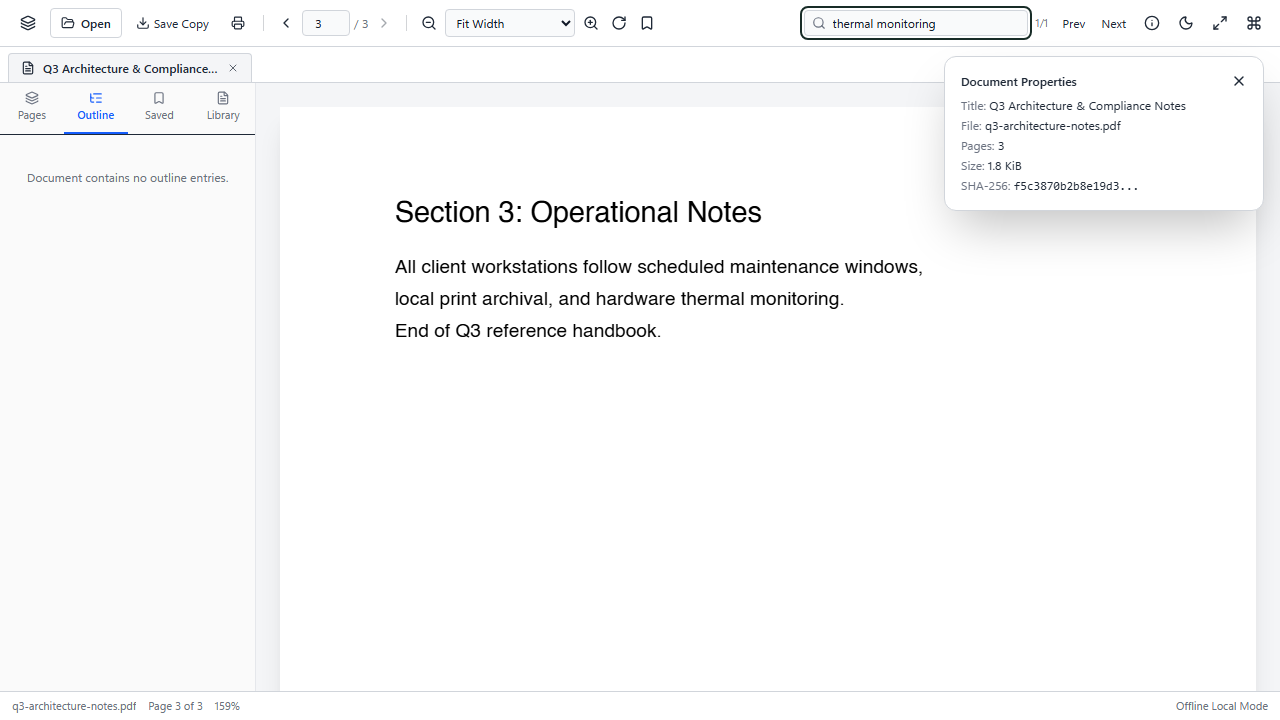
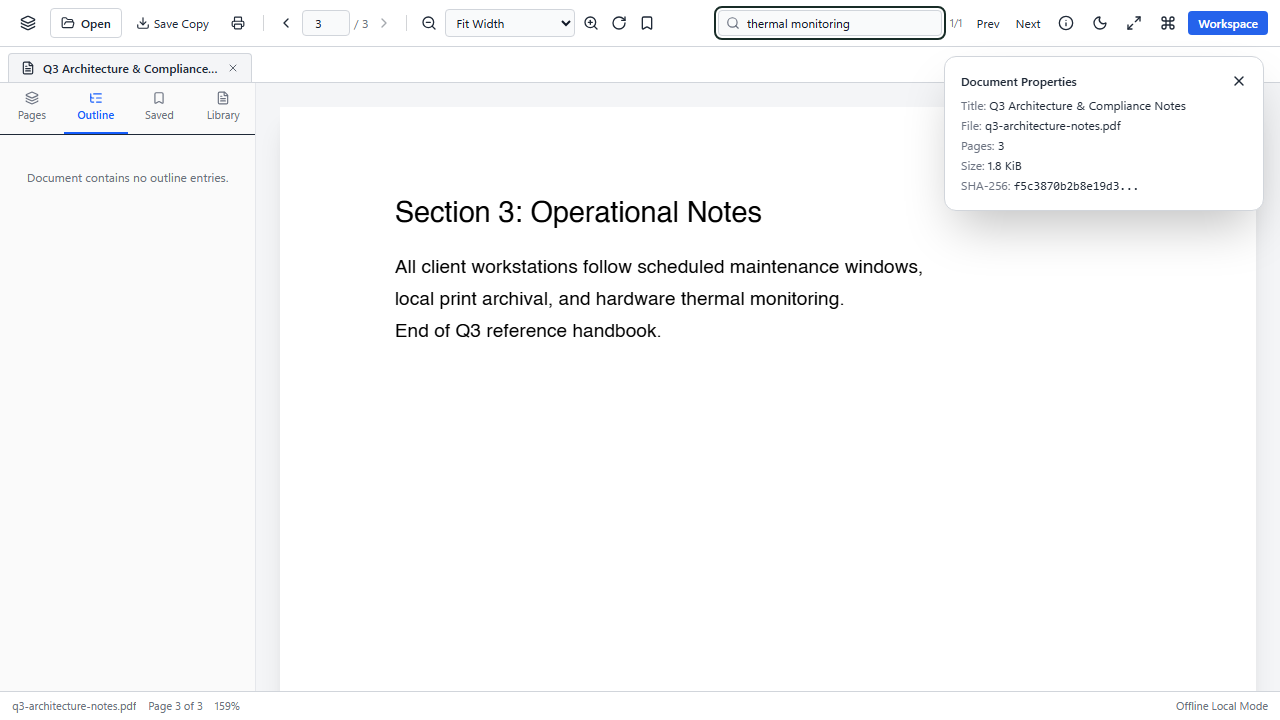
feat(stealth): require secret code to enter workspace from PDF cover with entry animation and instant hide

Changed region(s): [[0.5625, 0.0, 1.0, 0.0611]]

diff --git a/apps/web/src/pages/P2pWorkspacePage.tsx b/apps/web/src/pages/P2pWorkspacePage.tsx
@@ -425,8 +425,15 @@ export function P2pWorkspacePage() {
         setUnavailableReason(
           'Cloak Desktop API rejected the session token (401 Unauthorized). Launch via cloak-desktop.exe or pass the desktop session token.',
         );
-      } else if (err instanceof P2pApiError && err.status === 423) {
-        // Stealth Mode locked mid-refresh; re-fetch locked-safe bootstrap & decoy metadata instead of treating 423 as offline.
+      } else if (
+        err instanceof P2pApiError &&
+        (err.status === 423 ||
+          (err.status === 403 &&
+            (err.code === 'STEALTH_LOCKED' ||
+              err.message?.includes('STEALTH_LOCKED') ||
+              err.message?.includes('locked'))))
+      ) {
+        // Stealth Mode locked mid-refresh; re-fetch locked-safe bootstrap & decoy metadata instead of treating 403/423 as offline.
         try {
           const [boot, docs] = await Promise.all([
             p2pApi.getStealthBootstrap(),
@@ -1642,7 +1649,7 @@ export function P2pWorkspacePage() {
         className="min-h-screen bg-[var(--cloak-bg-void)] text-[var(--cloak-text)] flex items-center justify-center p-6"
       >
         {callState !== 'idle' && <audio ref={remoteKeepAliveAudioRef} autoPlay className="hidden" />}
-        <div className="cloak-panel-enter max-w-md w-full rounded-3xl border border-[var(--cloak-border-strong)] bg-[var(--cloak-bg-card)] shadow-[var(--cloak-dialog-shadow)] p-7 space-y-5">
+        <div className="max-w-md w-full rounded-3xl border border-[var(--cloak-border-strong)] bg-[var(--cloak-bg-card)] shadow-[var(--cloak-dialog-shadow)] p-7 space-y-5">
           <div className="mx-auto w-12 h-12 rounded-full bg-[var(--cloak-bg-sage-soft)] border border-[var(--cloak-accent-border)] flex items-center justify-center text-[var(--cloak-accent-text)]">
             <Lock className="w-5 h-5" />
           </div>
@@ -1749,7 +1756,7 @@ export function P2pWorkspacePage() {
   const activePeersCount = status?.activePeerIds.length ?? 0;
 
   return (
-    <div className="h-screen flex bg-[var(--cloak-bg-void)] text-[var(--cloak-text)] overflow-hidden relative">
+    <div className="h-screen flex bg-[var(--cloak-bg-void)] text-[var(--cloak-text)] overflow-hidden relative cloak-messenger-enter">
       {sidebarOpen && (
         <div
           aria-hidden="true"
@@ -2324,7 +2331,7 @@ export function P2pWorkspacePage() {
             data-testid="ghost-privacy-overlay"
             className="flex-1 flex items-center justify-center p-6 bg-[var(--cloak-bg-void)]"
           >
-            <div className="cloak-panel-enter max-w-md w-full rounded-3xl border border-[var(--cloak-border-strong)] bg-[var(--cloak-bg-card)] shadow-[var(--cloak-dialog-shadow)] p-7 space-y-5 text-center">
+            <div className="max-w-md w-full rounded-3xl border border-[var(--cloak-border-strong)] bg-[var(--cloak-bg-card)] shadow-[var(--cloak-dialog-shadow)] p-7 space-y-5 text-center">
               <div className="mx-auto w-12 h-12 rounded-full bg-[var(--cloak-bg-sage-soft)] border border-[var(--cloak-accent-border)] flex items-center justify-center text-[var(--cloak-accent-text)]">
                 <ShieldOff className="w-5 h-5" />
               </div>
@@ -2368,7 +2375,7 @@ export function P2pWorkspacePage() {
             </div>
           </div>
         ) : (
-          <div ref={messageListRef} className="flex-1 overflow-y-auto overflow-x-hidden" data-testid="p2p-message-list">
+          <div ref={messageListRef} className="flex-1 overflow-y-auto overflow-x-hidden cloak-messenger-enter" data-testid="p2p-message-list">
             <div className="max-w-[920px] mx-auto w-full min-h-full px-4 sm:px-8 py-6 flex flex-col">
               {loadingMessages && messages.length === 0 ? (
                 <div className="space-y-3 my-auto max-w-xl w-full mx-auto">

diff --git a/tests/e2e/stealth-mode.spec.ts b/tests/e2e/stealth-mode.spec.ts
@@ -164,6 +164,21 @@ test.describe('Cloak Phase 10 Stealth Mode + Offline PDF Decoy + Secret Unlock +
         timeout: 6000,
       });
 
+      // Verify "PDF Cover" button switches to PDF disguise and locks workspace (cannot bypass without secret code)
+      await pageA.getByTestId('switch-pdf-btn').click();
+      await expect(pageA.getByTestId('pdf-reader-shell')).toBeVisible({ timeout: 8000 });
+      await expect(pageA.getByTestId('pdf-welcome-screen')).toBeVisible();
+      expect(await pageA.title()).toBe('Document Reader');
+
+      // Clicking "Workspace" prompts for secret code instead of bypassing the lock
+      await pageA.getByRole('button', { name: 'Workspace', exact: true }).click();
+      await expect(pageA.getByLabel('Reader Access Prompt')).toBeVisible();
+      await pageA.getByPlaceholder('Enter secret code, passphrase, or PIN').fill('#cloak');
+      await pageA.getByRole('button', { name: 'Submit', exact: true }).click();
+      await expect(pageA.getByRole('heading', { name: 'Hidden Ops Vault' })).toBeVisible({
+        timeout: 8000,
+      });
+
       // Open Stealth & PDF Settings Modal and inspect all 6 tabs visually!
       await pageA.getByTestId('stealth-settings-btn').click();
       await expect(

diff --git a/apps/web/src/components/pdf/PdfReaderShell.tsx b/apps/web/src/components/pdf/PdfReaderShell.tsx
@@ -1029,14 +1029,30 @@ export function PdfReaderShell({
           </button>
         )}
 
-        {!bootstrap.locked && onReturnToMessenger && (
+        {bootstrap.locked ? (
           <button
             type="button"
-            onClick={onReturnToMessenger}
+            onClick={() => {
+              setUnlockMethodChoice('hidden_shortcut_input');
+              setUnlockModalOpen(true);
+              setTimeout(() => hiddenUnlockInputRef.current?.focus(), 40);
+            }}
             className="px-2.5 py-1 rounded bg-[#2563eb] text-white font-medium hover:bg-[#1d4ed8]"
+            aria-label="Workspace"
+            title="Unlock Cloak Workspace (requires secret code)"
           >
             Workspace
           </button>
+        ) : (
+          onReturnToMessenger && (
+            <button
+              type="button"
+              onClick={onReturnToMessenger}
+              className="px-2.5 py-1 rounded bg-[#2563eb] text-white font-medium hover:bg-[#1d4ed8]"
+            >
+              Workspace
+            </button>
+          )
         )}
       </header>
 

diff --git a/packages/ui/src/styles.css b/packages/ui/src/styles.css
@@ -260,6 +260,9 @@ dialog.cloak-dialog[open]::backdrop {
   .cloak-menu-enter {
     animation: cloak-menu-pop 150ms cubic-bezier(0.16, 1, 0.3, 1);
   }
+  .cloak-messenger-enter {
+    animation: cloak-messenger-reveal 240ms cubic-bezier(0.16, 1, 0.3, 1);
+  }
   .cloak-skeleton {
     background: linear-gradient(90deg, var(--cloak-bg-elevated) 25%, var(--cloak-skeleton-mid) 50%, var(--cloak-bg-elevated) 75%);
     background-size: 200% 100%;
@@ -270,6 +273,9 @@ dialog.cloak-dialog[open]::backdrop {
 @media (prefers-reduced-motion: reduce) {
   .cloak-transition {
     transition: background-color 120ms ease, border-color 120ms ease, color 120ms ease;
+  }
+  .cloak-messenger-enter {
+    animation: none;
   }
   .cloak-skeleton {
     background: var(--cloak-bg-elevated);
@@ -315,6 +321,17 @@ dialog.cloak-dialog[open]::backdrop {
   to {
     opacity: 1;
     transform: scale(1);
+  }
+}
+
+@keyframes cloak-messenger-reveal {
+  from {
+    opacity: 0;
+    transform: translateY(8px);
+  }
+  to {
+    opacity: 1;
+    transform: none;
   }
 }
 

diff --git a/crates/cloak-p2p/src/stealth_tests.rs b/crates/cloak-p2p/src/stealth_tests.rs
@@ -670,3 +670,60 @@ async fn pdf_search_ordinary_queries_do_not_lockout_while_burst_throttles() {
     node.shutdown();
     let _ = std::fs::remove_dir_all(&dir);
 }
+
+#[tokio::test]
+async fn manual_pdf_cover_works_before_stealth_enabled_and_overrides_shield_default() {
+    let dir = temp_vault_dir("manual-pdf-cover");
+    let node = P2pNode::start(&dir, "127.0.0.1:0", "CoverUser")
+        .await
+        .expect("start");
+
+    // 1. Default state: stealth.enabled == false. Clicking "PDF Cover" switches to PdfReader and locks workspace.
+    let cfg = node.stealth().get_config().unwrap();
+    assert!(!cfg.enabled);
+    let cover_boot = node
+        .stealth()
+        .handle_trigger(PrivacyTriggerKind::ManualSwitchToPdf)
+        .unwrap();
+    assert_eq!(cover_boot.active_surface, ActiveSurface::PdfReader);
+    assert!(cover_boot.locked);
+    assert_eq!(cover_boot.window_title, "Document Reader");
+
+    // Returning to Messenger without secret code MUST be rejected
+    assert!(node.stealth().switch_to_messenger_if_unlocked().is_err());
+
+    // Entering secret code '#cloak' (or 'cloak') unlocks back into Messenger
+    let unlock_res = node
+        .stealth()
+        .verify_and_unlock(UnlockMethod::PdfSearch, "#cloak", None)
+        .unwrap();
+    assert!(unlock_res.unlocked);
+    assert_eq!(unlock_res.bootstrap.active_surface, ActiveSurface::Messenger);
+    assert!(!unlock_res.bootstrap.locked);
+
+    // 2. When Stealth IS enabled with PrivacyShield default cover, ManualSwitchToPdf still opens PdfReader and locks.
+    let mut cfg = node.stealth().get_config().unwrap();
+    cfg.enabled = true;
+    cfg.stealth_visual_action = StealthVisualAction::PrivacyShield;
+    cfg.unlock.require_unlock_on_return = false;
+    node.stealth().update_config(cfg).unwrap();
+
+    let armed_cover = node
+        .stealth()
+        .handle_trigger(PrivacyTriggerKind::ManualSwitchToPdf)
+        .unwrap();
+    assert_eq!(armed_cover.active_surface, ActiveSurface::PdfReader);
+    assert!(armed_cover.locked);
+
+    // Unlocking with 'cloak' (without leading hash) also unlocks successfully
+    let unlock_res2 = node
+        .stealth()
+        .verify_and_unlock(UnlockMethod::HiddenShortcutInput, "cloak", None)
+        .unwrap();
+    assert!(unlock_res2.unlocked);
+    assert_eq!(unlock_res2.bootstrap.active_surface, ActiveSurface::Messenger);
+    assert!(!unlock_res2.bootstrap.locked);
+
+    node.shutdown();
+    let _ = std::fs::remove_dir_all(&dir);
+}

diff --git a/crates/cloak-p2p/src/stealth.rs b/crates/cloak-p2p/src/stealth.rs
@@ -772,6 +772,23 @@ pub fn evaluate_privacy_rules(
         now_ms,
     } = ctx;
     if !config.enabled {
+        // Explicit manual PDF Cover remains available even before full Stealth lock automation is armed.
+        // It always requires entering the secret code to return to the workspace.
+        if trigger == PrivacyTriggerKind::ManualSwitchToPdf {
+            return RuleEvaluationDecision {
+                matched_rule_ids: Vec::new(),
+                visual_action: StealthVisualAction::SwitchToPdf,
+                lock_action: LockAction::RequireUnlock,
+                deletion_action: LocalDeletionAction::KeepAll,
+                attachment_action: AttachmentPurgeAction::Keep,
+                notification_action: config.notifications.pdf_mode_level,
+                voice_action: config.calls.voice_action,
+                camera_action: config.calls.camera_action,
+                screen_share_action: config.calls.screen_share_action,
+                arm_background_away_ms: None,
+                supressed_by_modal: false,
+            };
+        }
         return RuleEvaluationDecision {
             matched_rule_ids: Vec::new(),
             visual_action: StealthVisualAction::None,
@@ -874,16 +891,24 @@ pub fn evaluate_privacy_rules(
         .first()
         .map(|r| r.visual_action)
         .unwrap_or(fallback_visual);
-    if matches!(
-        trigger,
-        PrivacyTriggerKind::ManualSwitchToPdf | PrivacyTriggerKind::PanicHotkey
-    ) && visual_action == StealthVisualAction::None
+    if trigger == PrivacyTriggerKind::ManualSwitchToPdf
+        && matching.is_empty()
+        && !matches!(
+            visual_action,
+            StealthVisualAction::SwitchToPdf
+                | StealthVisualAction::SwitchToSelectedPdf
+                | StealthVisualAction::GenericDocumentList
+        )
+    {
+        visual_action = StealthVisualAction::SwitchToPdf;
+    } else if trigger == PrivacyTriggerKind::PanicHotkey
+        && visual_action == StealthVisualAction::None
     {
         visual_action = StealthVisualAction::SwitchToPdf;
     }
 
     let lock_action = matching.first().map(|r| r.lock_action).unwrap_or(
-        if config.unlock.require_unlock_on_return {
+        if config.unlock.require_unlock_on_return || trigger == PrivacyTriggerKind::ManualSwitchToPdf {
             LockAction::RequireUnlock
         } else {
             LockAction::None

diff --git a/crates/cloak-p2p/src/stealth_storage.rs b/crates/cloak-p2p/src/stealth_storage.rs
@@ -154,6 +154,31 @@ impl LocalVault {
             )?;
         }
 
+        let codes_count: i64 = self
+            .conn
+            .query_row(
+                "SELECT COUNT(*) FROM stealth_secret_codes",
+                [],
+                |r| r.get(0),
+            )
+            .unwrap_or(0);
+        if codes_count == 0 {
+            let id = Uuid::new_v4().to_string();
+            let argon2_hash = hash_secret_code("#cloak", false)?;
+            let action_json = serde_json::to_string(&SecretCodeAction::OpenMessenger)?;
+            self.conn.execute(
+                "INSERT INTO stealth_secret_codes (id, label, action, target_room_id, case_sensitive, is_weak, require_additional_auth, argon2_hash, created_at, last_used_at)
+                 VALUES (?1, ?2, ?3, NULL, 0, 0, 0, ?4, ?5, NULL)",
+                params![
+                    id,
+                    "Default Unlock Code",
+                    action_json,
+                    argon2_hash,
+                    Utc::now().to_rfc3339(),
+                ],
+            )?;
+        }
+
         Ok(())
     }
 
@@ -299,10 +324,22 @@ impl LocalVault {
             .collect::<Result<Vec<_>, _>>()?;
         drop(stmt);
 
+        let trimmed = candidate.trim();
+        let with_hash = if trimmed.starts_with('#') {
+            trimmed.to_string()
+        } else {
+            format!("#{trimmed}")
+        };
+        let without_hash = trimmed.trim_start_matches('#');
+
         let mut matched: Option<MatchedSecretCode> = None;
         for (id, action_json, target_room_id, code_cs, req_add, hash) in entries {
             let cs = global_case_sensitive && (code_cs != 0);
-            if verify_secret_code(candidate, cs, &hash).unwrap_or(false) && matched.is_none() {
+            let matches_candidate = verify_secret_code(candidate, cs, &hash).unwrap_or(false)
+                || verify_secret_code(trimmed, cs, &hash).unwrap_or(false)
+                || verify_secret_code(&with_hash, cs, &hash).unwrap_or(false)
+                || verify_secret_code(without_hash, cs, &hash).unwrap_or(false);
+            if matches_candidate && matched.is_none() {
                 matched = Some(MatchedSecretCode {
                     id: id.clone(),
                     action: serde_json::from_str(&action_json)

diff --git a/crates/cloak-p2p/src/stealth_controller.rs b/crates/cloak-p2p/src/stealth_controller.rs
@@ -7,7 +7,7 @@ use crate::error::{P2pError, P2pResult};
 use crate::model::NodeEvent;
 use crate::stealth::{
     ActiveCallPrivacySummary, ActiveSurface, CameraAction, LocalDeletionAction, LockAction,
-    PdfDocumentRecord, PdfReaderTheme, PrivacyTriggerKind, RuleEvalContext, ScreenShareAction,
+    PdfDocumentRecord, PrivacyTriggerKind, RuleEvalContext, ScreenShareAction,
     SecretCodeAction, StealthBootstrapState, StealthConfig, StealthLaunchView,
     StealthLifecycleState, StealthPdfReturnBehavior, StealthVisualAction, UnlockMethod,
     UnlockOutcome, VoiceCallAction, evaluate_privacy_rules,
@@ -974,11 +974,7 @@ impl StealthController {
             launch_view: cfg.launch_view,
             pdf_return_behavior: cfg.pdf_reader.return_behavior,
             default_pdf_id: self.select_default_pdf_id(&docs, &cfg),
-            pdf_theme: if cfg.enabled {
-                cfg.pdf_reader.theme
-            } else {
-                PdfReaderTheme::Light
-            },
+            pdf_theme: cfg.pdf_reader.theme,
             window_title,
             enabled_unlock_methods: cfg.unlock.enabled_methods.clone(),
             require_additional_auth: cfg.unlock.require_additional_auth,

diff --git a/apps/desktop/src/native_shell.rs b/apps/desktop/src/native_shell.rs
@@ -381,8 +381,7 @@ mod imp {
                 Event::UserEvent(ShellUserEvent::StealthUpdated(boot)) => {
                     window.set_title(&boot.window_title);
                     if let Some(ref ti) = tray_icon {
-                        let tip = if boot.stealth_enabled
-                            && (boot.locked || boot.active_surface != ActiveSurface::Messenger)
+                        let tip = if boot.locked || boot.active_surface != ActiveSurface::Messenger
                         {
                             boot.window_title.as_str()
                         } else {
